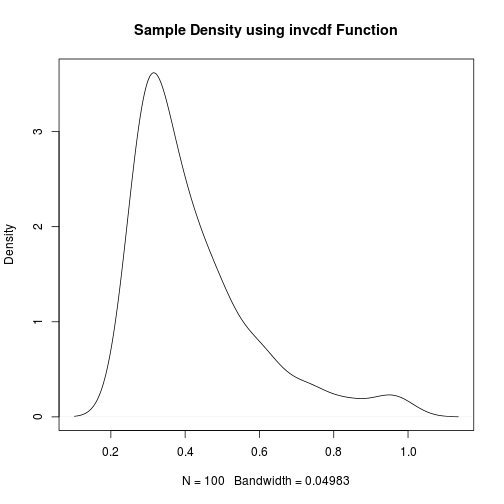
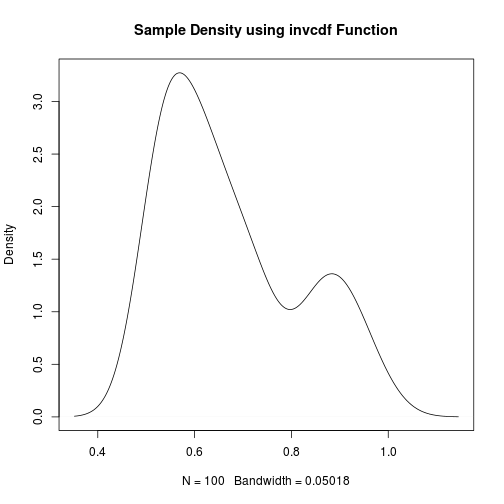
DNS

diff --git a/_posts/2012-11-20-sampling-from-an-arbitrary-density.md b/_posts/2012-11-20-sampling-from-an-arbitrary-density.md
@@ -1,11 +1,11 @@
 ---
 layout: post
-title: Sampling from an Arbitrary Density
+title: Sampling From an Arbitrary Density
 category: 
 tags: [r]
 ---
 {% include JB/setup %}
-<div class="hidden">$\newcommand{\I}{\mathbb{1}}$</div>
+<div style='visibility: hidden; height: 0;'>$\newcommand{\I}{\mathbb{1}}$</div>
 
 One way to sample from a known probability density function (pdf) is to use [inverse transform sampling](http://en.wikipedia.org/wiki/Inverse_transform_sampling). First, you integrate the pdf to get the cumulative distribution function (cdf). Next, you find the inverse of the cdf. Finally, apply this inverse cdf to each number in a sample of Uniform(0,1) observations.
 
@@ -23,12 +23,12 @@ The cdf is
 
 
 <div>\begin{align*}
-F(x) &= \int_{-infty}^x f(t) dt\\
+F(x) &= \int_{-\infty}^x f(t) dt\\
  &= \left\{
      \begin{array}{ll}
-       0 & , x < m\\
-       \frac{1}{1-m^2} - \frac{m^2}{(1-m^2)x^2} & , x \in [m,1]\\
-       1 & , x > 1
+       0 , & \text{if} x < m\\
+       \frac{1}{1-m^2} - \frac{m^2}{(1-m^2)x^2} , & \text{if} x \in [m,1]\\
+       1 , & \text{if} x > 1
      \end{array}
     \right.
 \end{align*}</div>
@@ -44,7 +44,7 @@ Finally, we can apply the technique. Below, I generate 100 standard uniform obse
 
 
     invcdf <- function(u, m = 0.5) {
-        return(m^2/(1 - (1 - m^2) * u))
+        return(sqrt(m^2/(1 - (1 - m^2) * u)))
     }
     
     sample1 <- sapply(runif(100), invcdf)
@@ -121,7 +121,7 @@ While `samplepdf` is convenient, it is also computationally slow. The algorithm 
         fit[1], "+", fit[2], "* n."))
 
 
-    ## [1] "The number of seconds required to sample from this density is about 3.01313333333334 + 0.143591212121212 * n."
+    ## [1] "The number of seconds required to sample from this density is about 3.23273333333337 + 0.139229575757576 * n."
 
 
     plot(n, times, ylab = "seconds", xlab = "n", main = "Time Required", col = 3)
@@ -133,4 +133,5 @@ While `samplepdf` is convenient, it is also computationally slow. The algorithm 
 
 
 At the beginning of this document, we found the inverse cdf analytically. The R function that used this analytical result can generate a sample of size 1000 in the blink of an eye, while the `samplepdf` function took about two and a half minutes on my slow netbook. However, if you give the lower and upper endpoints as in `samplepdf(1000, mypdf, .5, 1)`, the function only takes about ten seconds to run.
+
 
